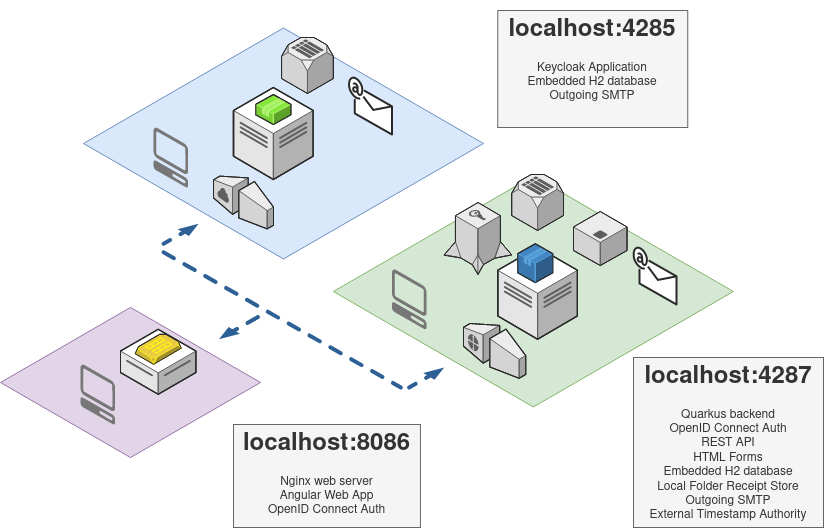
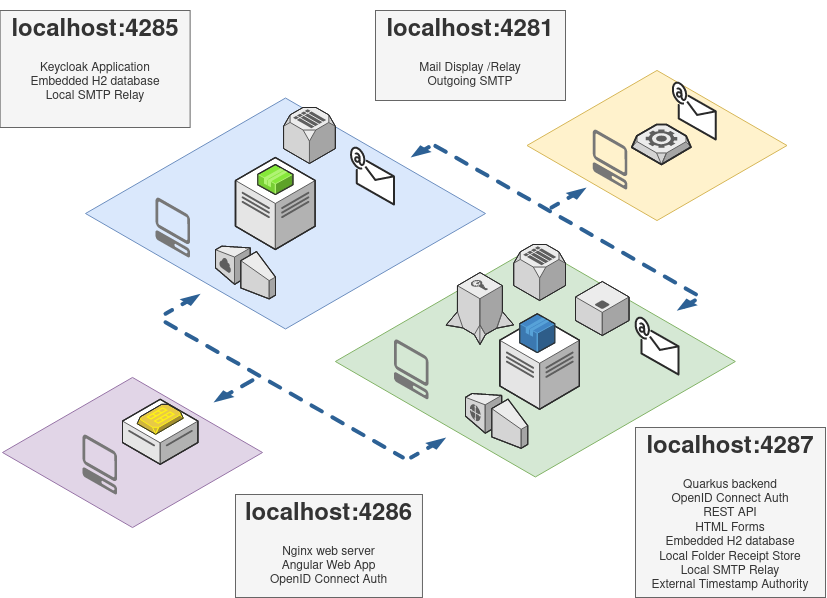
Update doc pages

diff --git a/_docs/01-quick-start-guide.md b/_docs/01-quick-start-guide.md
@@ -27,14 +27,16 @@ This should make all components running in docker.
 
 {% include video id="1NS4eueAFqihJ-dnQQu7NnG_hBZvntHy9" provider="google-drive" %}
 
-Then you can open backoffice url <http://localhost:4200> using imported accounts (admin/admin, operator/operator, user/user).  
-You can also access Identity Provider service in order to manage accounts : <http://localhost:8080/auth> (admin/admin123).  
-API is accessible via http://localhost:9080/api/health
+Backoffice web application url: <http://localhost:4286>  
+Identity Provider manager url: <http://localhost:4285/auth>  
+Backend API url: <http://localhost:4287/api/health>
+
+Username & password: *demo@demo.com/demo42*
 
 
-### local method
+### source method
 
-Local installation requires specific tools (JDK and Maven) and skills. Please visit the dedicated [documentation page](../installation/) for this type of installation.
+Source based installation requires specific tools (JDK and Maven) and skills. Please visit the dedicated [installation page](../installation/) for this type of installation.
 
 
 ## First steps
@@ -47,14 +49,10 @@ Backoffice access allows to apply some modification to any existing or non-exist
 
 As that customer as never setup any preferences or consents, the page is empty but the account has been created and activity date is recorder as a starting point.
 
-Now, perform some modifications on the available sample consent and/or preferences. Notice that changes are stacked, waiting unti you commit those modifications. While stacked operations
-are not commited, nothing is effective for that customer. 
+Now, perform some modifications on the available sample consent and/or preferences. Notice that changes are stacked, waiting until you commit those modifications. While stacked operations
+are not commited, nothing is effective for the customer. 
 
 //TODO Screencast 2 - Cha
-
-Many more elements and aspects
-
-<http://localhost:4000/right-consent/docs/basic-info/>
 
 
 

diff --git a/_docs/03-installation.md b/_docs/03-installation.md
@@ -6,4 +6,47 @@ last_modified_at: 2020-12-15
 toc: true
 ---
 
+## Docker installation
+
+As mentionned in the quick start guide, docker installation is based on a docker-compose deployment configuration that does all the stuff for you.
+
+Assuming you have a already installed docker-composed you can start a local instance with following commands : 
+
+```bash
+$ git clone git@github.com:fairandsmart/right-consent.git
+$ cd right-consent
+$ docker-compose up
+```
+
+As soon as the composition is up, you can go to the [web application](http://localhost:4286)
+
+## Source installation
+
+For development purpose or to have a more configurable installation, you can install a local instance. Some components will be deployed using docker and others using source code directly.
+
+## Requirements
+
+In order to build projects you will need : 
+- JDK 11
+- Maven >= 3.6.3
+- NodeJS >= 12.20.0
+- npm >= 6.14.8
+
+### Keycloak
+
+Keycloak is not developped by us and we are using a docker based installation. If you want to use a local instance (wildfly) you can visit [keycloak website](https://www.keycloak.org/docs/latest/server_installation/index.html) for details. 
+
+Starting keycloak in a docker container is better if you use a dedicated volume allowing to preserve data if container is destroyed and recreated.
+
+```bash
+$ mkdir /var/keycloak
+$ 
+```
+
+### Backend
+
+### SMTP server
+
+### Web Application
+
 

diff --git a/_docs/04-configuration.md b/_docs/04-configuration.md
@@ -6,4 +6,14 @@ last_modified_at: 2020-12-15
 toc: true
 ---
 
+Configuration of the whole composition is not available in a single place. Each component of the system hold a part of the configuration.
 
+## IdP (keycloak) configuration
+
+Configuration of the IdP if available using the manager interface <http://localhost:4285/auth>
+
+## SMTP Server
+
+## Backend
+
+## Web Application
